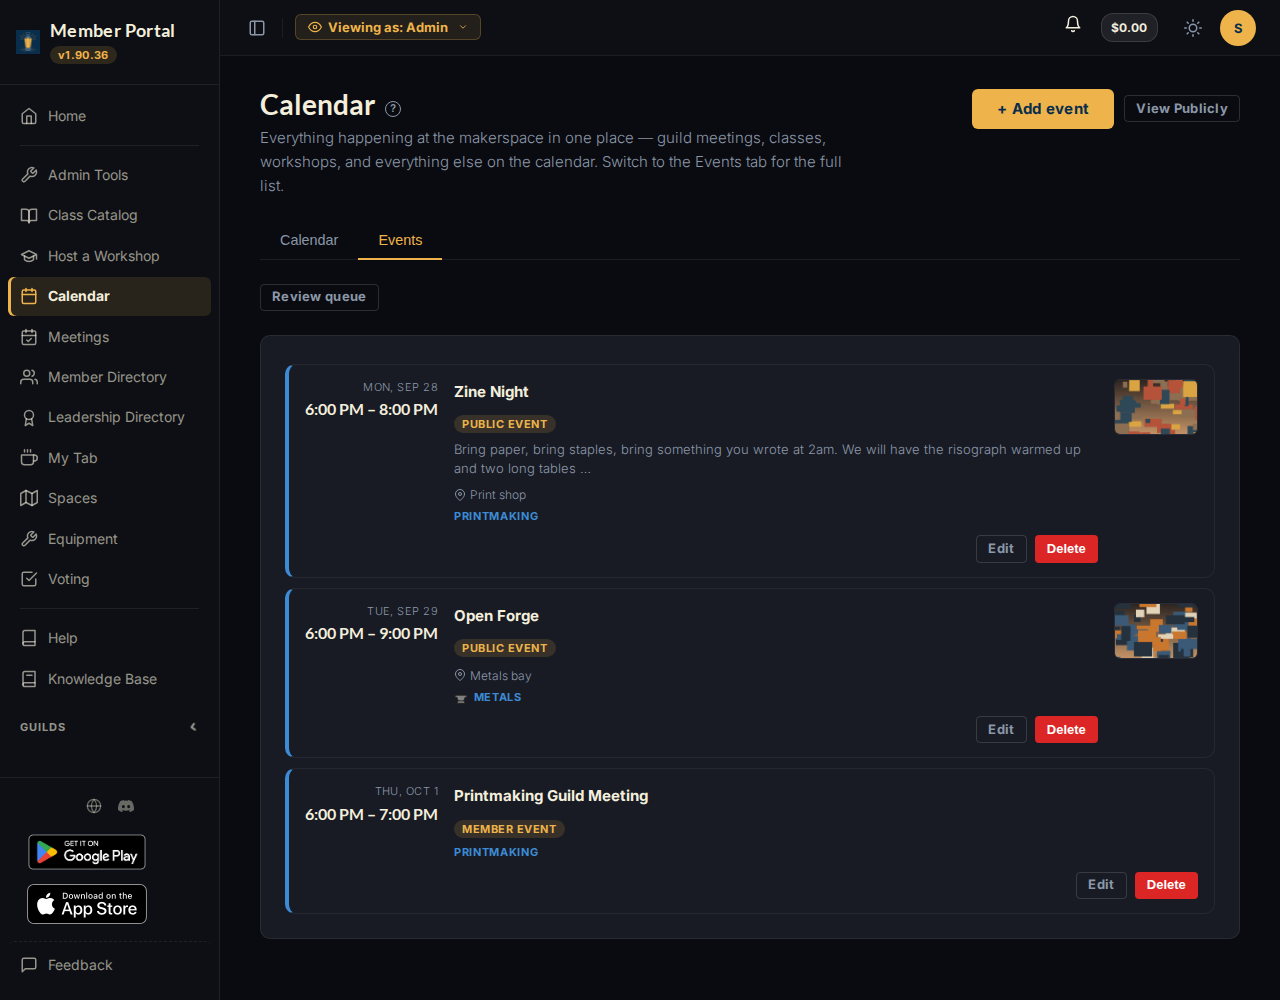
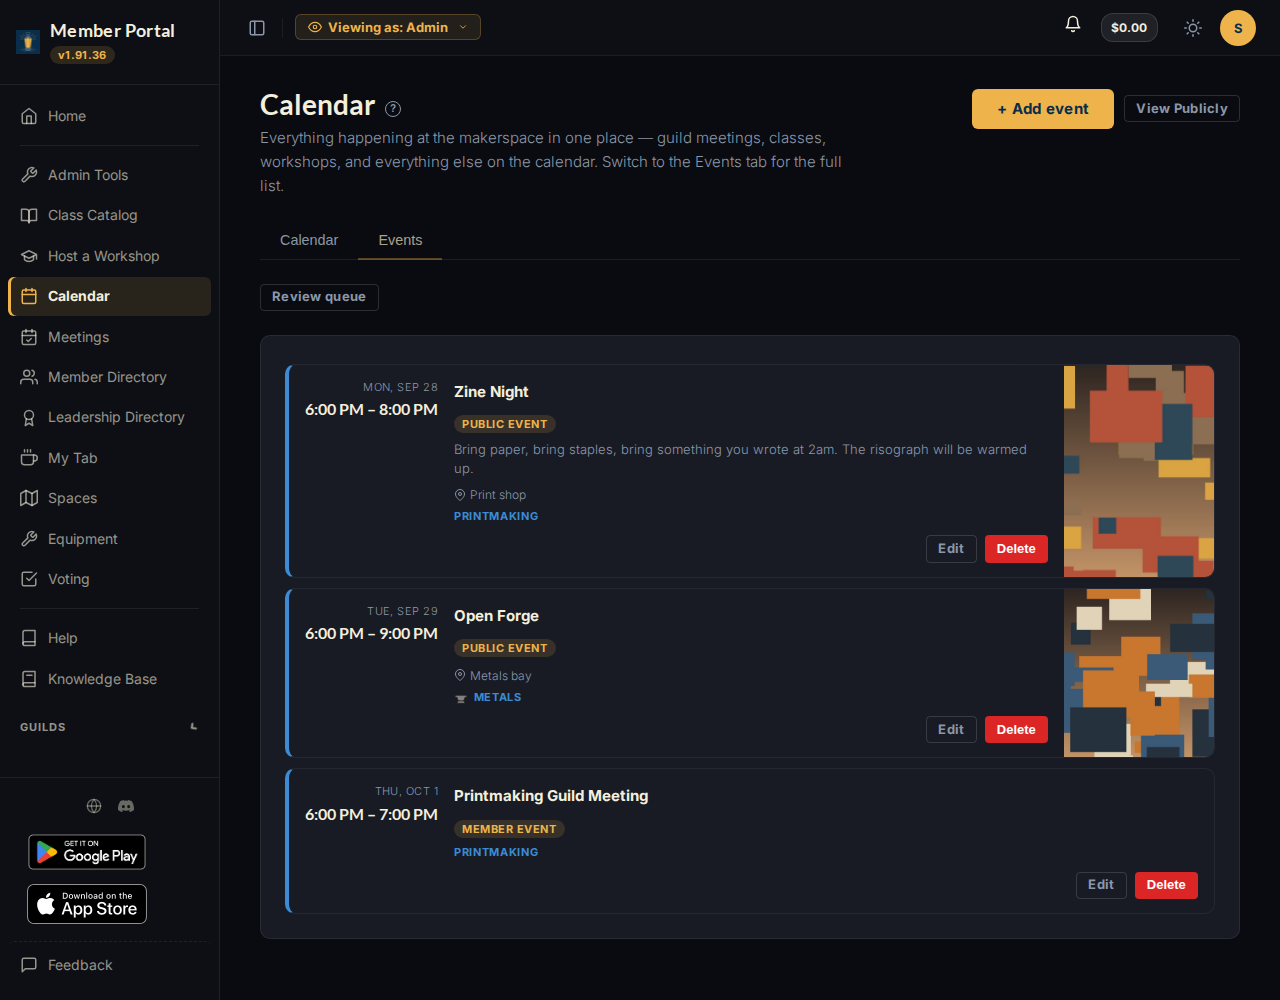
fix(hub): the event photo is a panel of the calendar row, not a sticker on it
The first cut framed the photo as an 84x56 box with its own border and
radius, floating inside the row's padding, which read as something stuck
onto the card rather than part of it. No placement fixed that, so the
framing changed instead: the row hands its padding to its children and
clips its own corners, which lets the photo bleed to the card's edges and
stretch the full row height. 150px wide, closing the row, so a photoless
row's text still lines up with its neighbours'.

Left side was tried and dropped: an event with no photo leaves a dead
block where the image goes, and tinting it with the event's calendar
color still read as a broken image. A banner across the top of the row
was tried and dropped too, because it makes every row much taller and
turns a handful of events into a scroll.

Claude-Session: https://claude.ai/code/session_01CnHewUHyxdCJJHrGJ4YdMN

Changed region(s): [[0.6562, 0.341, 0.9688, 0.775], [0.3438, 0.465, 0.4375, 0.496], [0.0625, 0.031, 0.0938, 0.062]]

diff --git a/static/css/calendar.css b/static/css/calendar.css
@@ -436,14 +436,25 @@
 .pl-calendar-list__item {
     position: relative;
     display: flex;
-    gap: 1rem;
     background: var(--hub-card-bg);
     border-radius: 10px;
     border: 1px solid rgba(255,255,255,0.06);
     border-left: 4px solid var(--event-color, #888);
-    padding: 0.875rem 1rem;
-    align-items: flex-start;
+    /* No padding of its own and no gap: each child brings its own, so an event photo can
+       bleed to the card's edges instead of floating inside a frame. overflow clips it to
+       the rounded corner. */
+    padding: 0;
+    overflow: hidden;
+    align-items: stretch;
     transition: box-shadow 0.3s, background 0.3s;
+}
+
+.pl-calendar-list__item > .pl-calendar-list__time {
+    padding: 0.875rem 0 0.875rem 1rem;
+}
+
+.pl-calendar-list__item > .pl-calendar-list__body {
+    padding: 0.875rem 1rem;
 }
 
 .pl-calendar-list__item--flash {
@@ -520,16 +531,15 @@
     min-width: 0;
 }
 
-/* An event's photo, at the END of the row on purpose: the row is a flex line and the time
-   column is its left edge, so a thumbnail here leaves every row's text aligned whether or
-   not that event carries a picture. Hidden on phones, where the row has no width to spare. */
+/* An event's photo is a panel of the row, not a sticker on it: it bleeds to the card's own
+   edges and stretches the full height, which is why the row hands its padding to its children
+   (below) rather than carrying it itself. It closes the row so a photoless row's text still
+   lines up with its neighbours'. Hidden on phones, where the row has no width to spare. */
 .pl-calendar-list__thumb {
-    flex: 0 0 auto;
-    width: 84px;
-    height: 56px;
-    border-radius: 6px;
+    flex: 0 0 150px;
+    align-self: stretch;
+    min-height: 104px;
     overflow: hidden;
-    border: 1px solid var(--hub-border);
 }
 
 .pl-calendar-list__thumb img {
@@ -537,6 +547,12 @@
     width: 100%;
     height: 100%;
     object-fit: cover;
+}
+
+@media (max-width: 900px) {
+    .pl-calendar-list__thumb {
+        flex-basis: 132px;
+    }
 }
 
 @media (max-width: 640px) {
